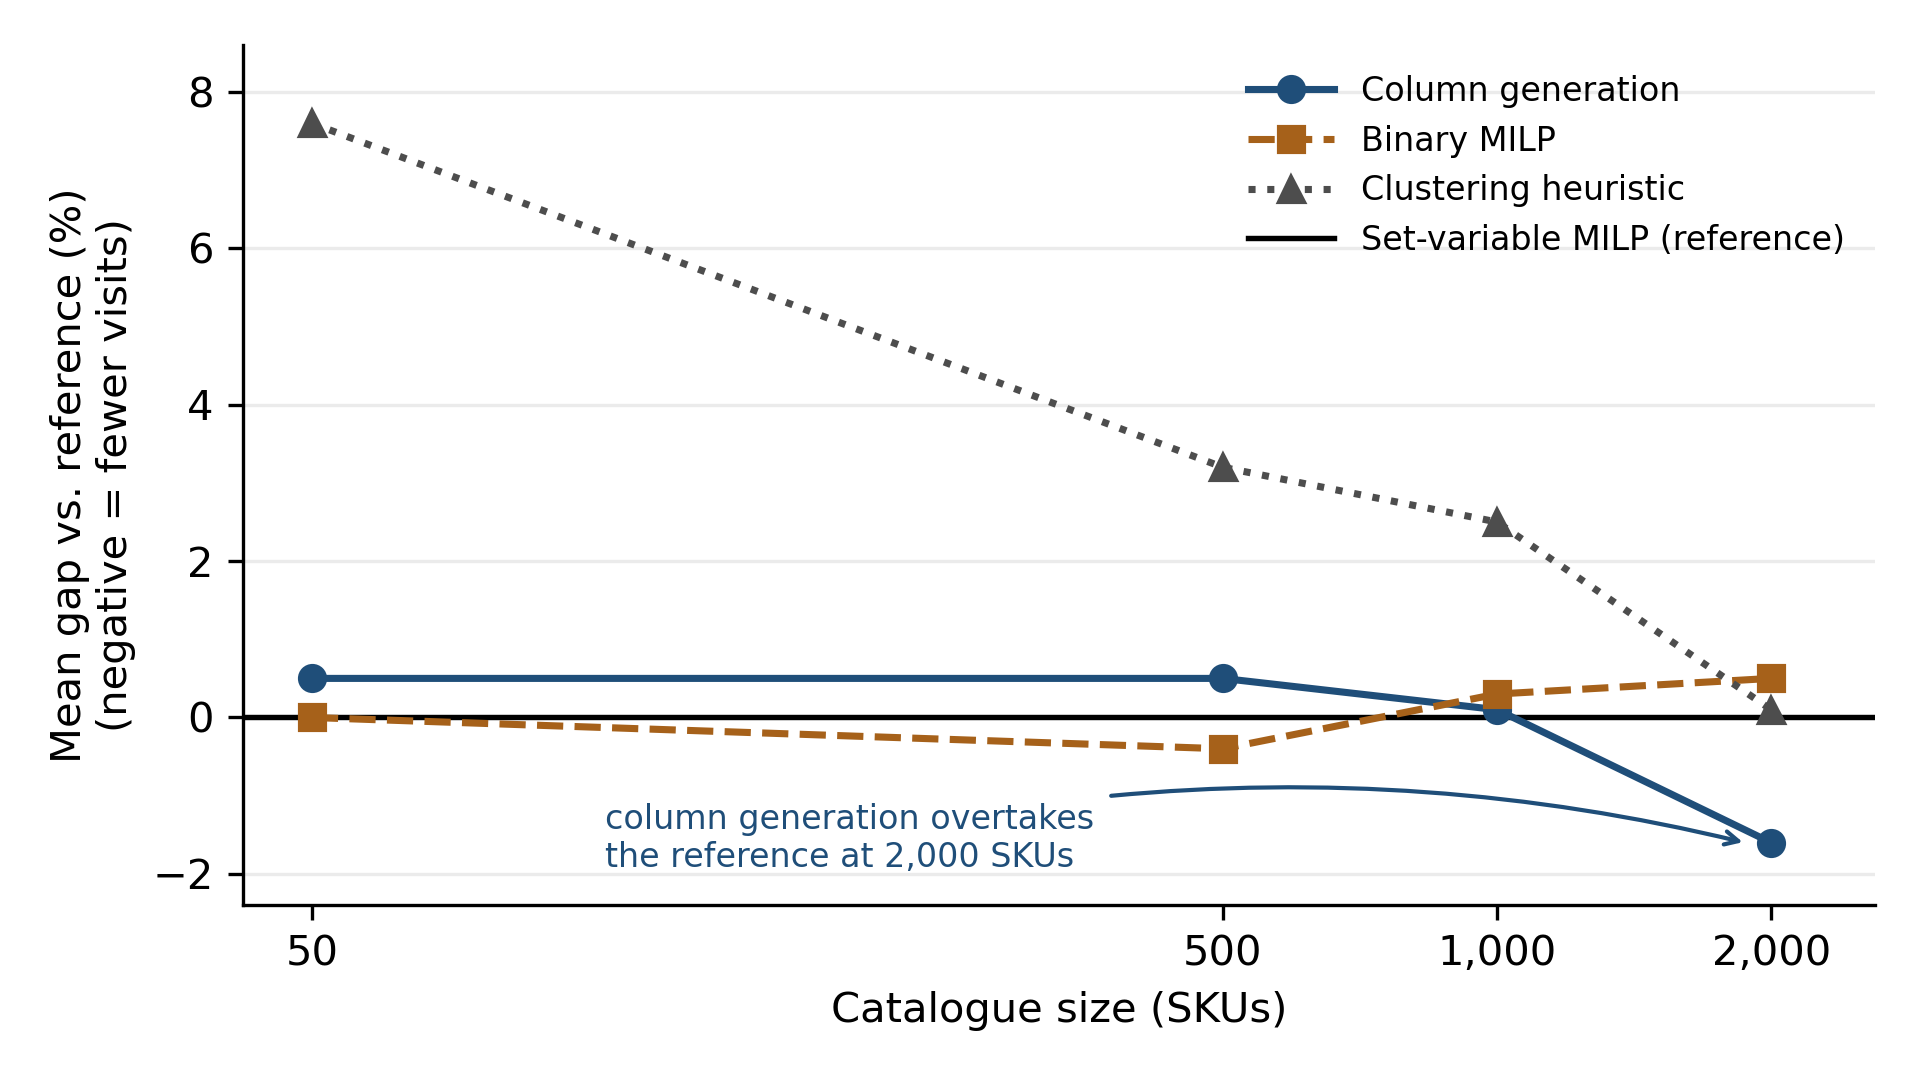
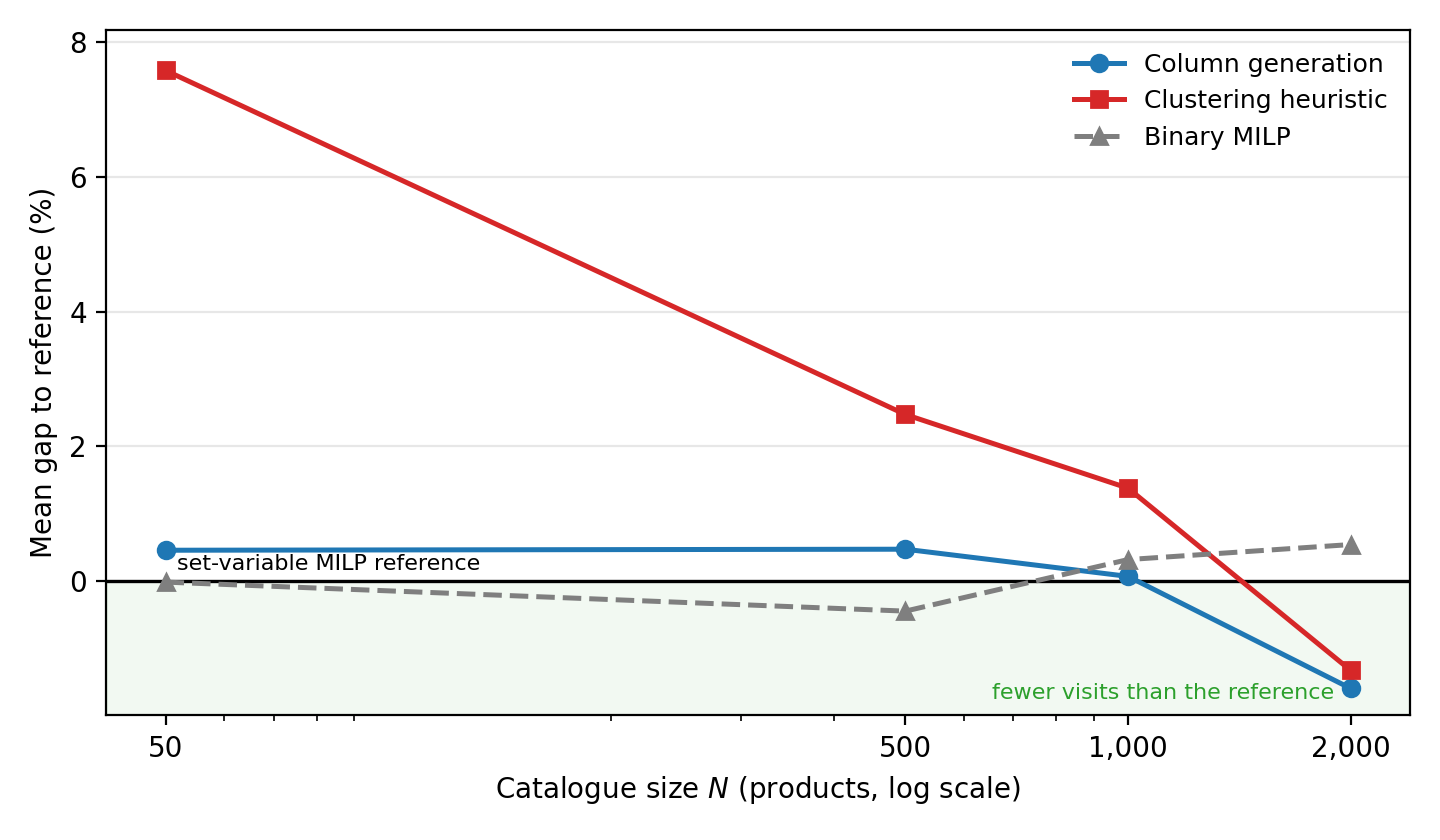
figs: generator for fig:crossover; regenerate both industrial workload panels
gap_vs_size_crossover.png had NO generator in the repository -- the
changelog records it as hand-built from Table 4's Gap column. That was
survivable while the curves were static; it is not, now that the
heuristic curve moves at three of four points and crosses the reference.
plot_gap_vs_size_crossover.py draws it from
final_formulation_analysis_perinstance.csv using the same mean-of-
per-instance-gaps convention as the table, so figure and table agree by
construction rather than by hand.

Both curves now cross between 1,000 and 2,000 SKUs: CG -1.59%,
heuristic -1.32%.

Figure 11a is redrawn from the search run that also produces the Table 6
row; its own check reports 0 of 24 stations over the +10% tolerance and a
utilisation span of [-83.8%, +10.0%].

diff --git a/plot_gap_vs_size_crossover.py b/plot_gap_vs_size_crossover.py
@@ -1,0 +1,119 @@
+"""Figure: mean gap to the set-variable MILP reference against catalogue size.
+
+Draws Images_CSLAP/gap_vs_size_crossover.png (fig:crossover in the manuscript).
+
+Why this file exists
+--------------------
+The figure previously had NO generator in the repository. IJPR_revision_changelog
+records it as "built from Table 4's Gap column", i.e. hand-authored, and a search
+of every savefig call in the tree confirms nothing wrote it. That was tolerable
+while the curves were static; it is not tolerable now that re-indexing the
+community bound on zeta moves the heuristic curve at three of its four points and
+makes it cross the reference. A hand-drawn figure would silently disagree with
+the table it is drawn from.
+
+Source of truth
+---------------
+exp02a_results/final_formulation_analysis_perinstance.csv, written by
+Baselines/final_formulation_analysis.py. Curves are the MEAN OF PER-INSTANCE
+percentage gaps against the `setvar` column -- the same convention Table 4's Gap
+column uses (see IJPR_revision_changelog Part N: the paired tests and the Gap
+column both run on per-instance quantities, not on ratios of column means).
+Reading the gaps from this one file is what keeps the figure and the table in
+agreement by construction.
+
+Usage
+-----
+    python plot_gap_vs_size_crossover.py
+    python plot_gap_vs_size_crossover.py --print-only
+"""
+
+from __future__ import annotations
+
+import argparse
+import os
+import sys
+
+import matplotlib
+matplotlib.use("Agg")
+import matplotlib.pyplot as plt  # noqa: E402
+import pandas as pd  # noqa: E402
+
+BASE_DIR = os.path.dirname(os.path.abspath(__file__))
+SRC = os.path.join(BASE_DIR, "exp02a_results",
+                   "final_formulation_analysis_perinstance.csv")
+OUT = os.path.join(BASE_DIR, "Images_CSLAP", "gap_vs_size_crossover.png")
+
+# column in the source -> (legend label, colour, marker, linestyle)
+SERIES = {
+    "cg":     ("Column generation", "#1f77b4", "o", "-"),
+    "heur":   ("Clustering heuristic", "#d62728", "s", "-"),
+    "binary": ("Binary MILP", "#7f7f7f", "^", "--"),
+}
+
+
+def gaps(df: pd.DataFrame) -> pd.DataFrame:
+    """Mean per-instance % gap to `setvar`, per size, for each series."""
+    out = {}
+    for col in SERIES:
+        out[col] = (df.groupby("size_n")
+                    .apply(lambda g, c=col: 100.0 * ((g[c] - g.setvar) / g.setvar).mean()))
+    return pd.DataFrame(out)
+
+
+def main(argv=None) -> int:
+    p = argparse.ArgumentParser(description=__doc__)
+    p.add_argument("--src", default=SRC)
+    p.add_argument("--out", default=OUT)
+    p.add_argument("--print-only", action="store_true")
+    args = p.parse_args(argv)
+
+    if not os.path.isfile(args.src):
+        print(f"missing {args.src}; run Baselines/final_formulation_analysis.py first",
+              file=sys.stderr)
+        return 2
+
+    g = gaps(pd.read_csv(args.src))
+
+    print("mean per-instance gap to the set-variable reference (%)")
+    print(g.round(2).to_string())
+    crossers = [SERIES[c][0] for c in g.columns if (g[c] < 0).any()]
+    print("\nseries crossing below the reference:", ", ".join(crossers) or "none")
+    if args.print_only:
+        return 0
+
+    fig, ax = plt.subplots(figsize=(7.2, 4.2))
+    ax.axhline(0.0, color="black", lw=1.2, zorder=2)
+    ax.annotate("set-variable MILP reference", xy=(g.index[0], 0), xytext=(4, 4),
+                textcoords="offset points", fontsize=8, color="black")
+
+    for col, (label, colour, marker, ls) in SERIES.items():
+        ax.plot(g.index, g[col], marker=marker, ls=ls, color=colour, lw=1.8,
+                ms=6, label=label, zorder=3)
+
+    ax.set_xscale("log")
+    ax.set_xticks(list(g.index))
+    ax.set_xticklabels([f"{int(n):,}" for n in g.index])
+    ax.set_xlabel("Catalogue size $N$ (products, log scale)")
+    ax.set_ylabel("Mean gap to reference (%)")
+    ax.grid(True, which="major", axis="y", alpha=0.3)
+    ax.legend(frameon=False, fontsize=9)
+
+    # Shade the region where a curve uses FEWER visits than the reference, so the
+    # sign convention cannot be misread.
+    lo = min(-0.6, float(g.min().min()) - 0.4)
+    ax.set_ylim(lo, float(g.max().max()) + 0.6)
+    ax.axhspan(lo, 0.0, color="#2ca02c", alpha=0.06, zorder=1)
+    ax.annotate("fewer visits than the reference", xy=(g.index[-1], lo),
+                xytext=(-6, 6), textcoords="offset points", ha="right",
+                fontsize=8, color="#2ca02c")
+
+    fig.tight_layout()
+    os.makedirs(os.path.dirname(args.out), exist_ok=True)
+    fig.savefig(args.out, dpi=200)
+    print(f"\nwrote {args.out}")
+    return 0
+
+
+if __name__ == "__main__":
+    raise SystemExit(main())
